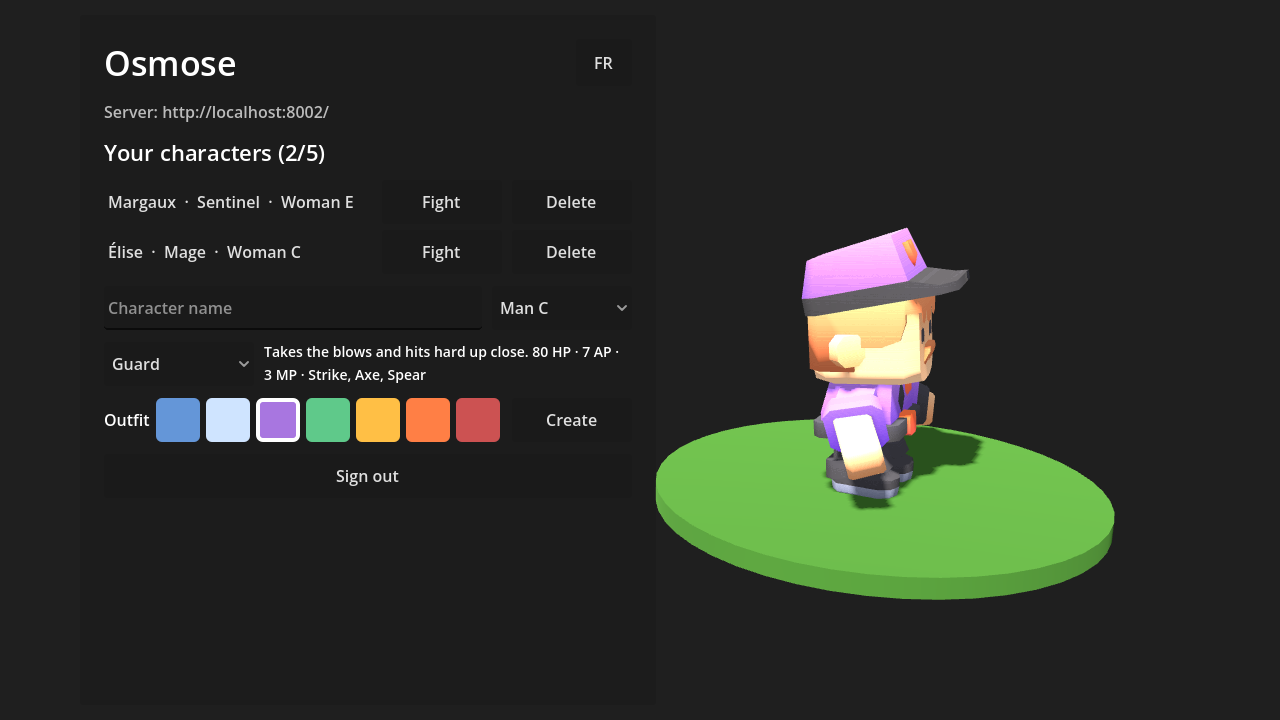
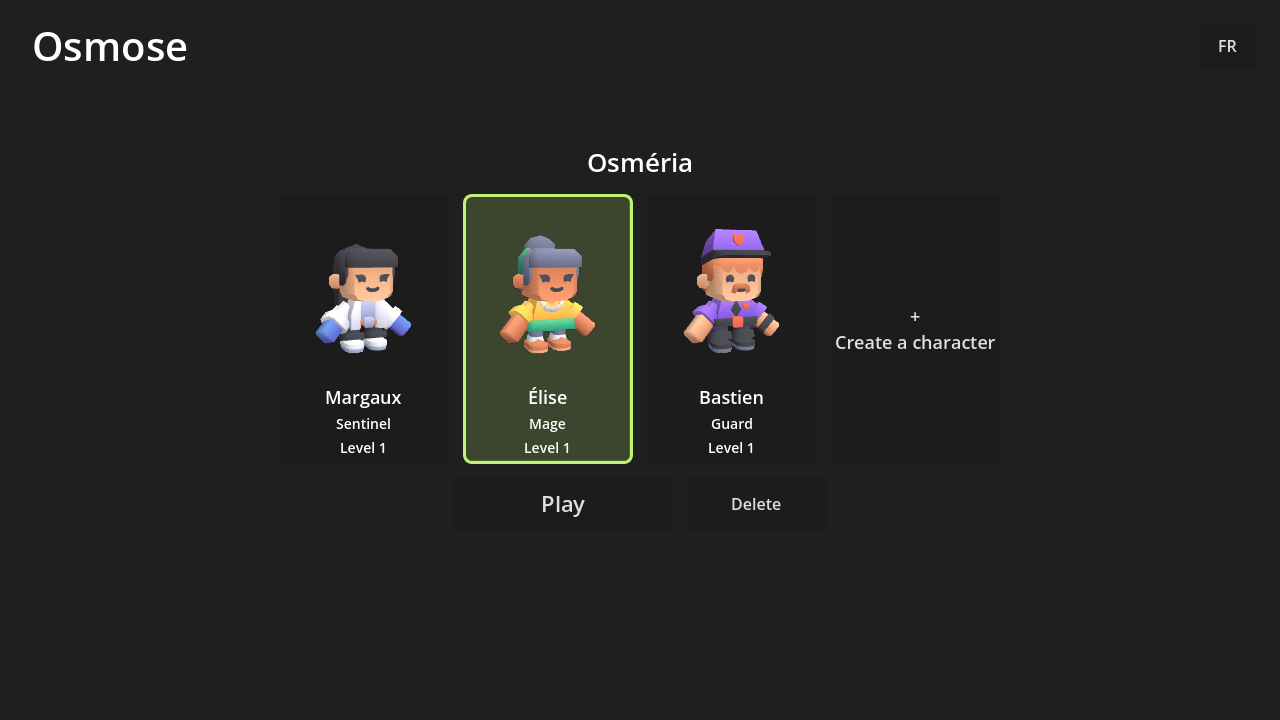
docs(rpg): sprint 52 done, the characters screen on the page and its decision (T21)

diff --git a/projects/rpg/README.md b/projects/rpg/README.md
@@ -4,7 +4,7 @@
 
 Un RPG tactique au tour par tour, dans l'esprit de Dofus et de Wakfu, écrit de zéro : aucun code, aucun nom, aucune image d'Ankama (D54). Six sprints : les règles du combat (sprint 45, ce dossier), le combat isométrique dans Godot 4 (46), le serveur de comptes et de personnages (47), la création de personnage (48), la ville d'accueil et ses PNJ (49), le launcher en Rust et les exécutables (50). Solo d'abord ; le multijoueur viendra plus tard, sur ces mêmes règles.
 
-*A turn-based tactical RPG in the style of Dofus and Wakfu, written from scratch. Sprint 51: the launcher redone: it updates the game by itself, an account name, a password and "Sign in" (which starts the game), remembering the name and the password (in the system's credential store), sign-up, the server hidden, a banner of the village. Sprint 50: a Rust launcher (Tauri) that signs in, updates the game file by file from a versioned SHA-256 manifest, resumes cut downloads with HTTP ranges and starts the game with the token; unsigned packages for Windows, macOS and Linux built by the CI; a video and an architecture diagram on the project page. Sprint 49: a welcome town built from Kenney's Fantasy Town Kit, walked with a click along the shortest path, three inhabitants with bilingual dialogues and choices described in data, the character's place saved on the server, a gate to a training fight. Sprint 48: character creation with three classes described in data (characteristics and spells, balanced by simulation), twelve looks and seven outfit colours (a palette shader), checked by the server. Sprint 47: an ASP.NET Core server for accounts and characters (JWT, PBKDF2 password hashes, rate limit, EF Core and PostgreSQL, OpenAPI, Docker), and the game's login and character screen, tested end to end against it, with an offline mode. Sprint 46: a Godot 4 C# desktop client (isometric 3D board, Kenney's free animated models, mouse and keyboard play against the AI, a self-test that plays a whole fight through the controls, builds for Windows, macOS and Linux). Sprint 45: the combat rules in a deterministic C# library (isometric grid, action and movement points, A* paths, exact line of sight, spells, initiative, an AI), described by data files, recorded fights that replay roll for roll on Linux, Windows and macOS, and a terminal simulator.*
+*A turn-based tactical RPG in the style of Dofus and Wakfu, written from scratch. Sprint 52: as in the games of the genre, the game opens on the server choice (Osméria, straight through while it is alone) then on the characters as cards (3D portrait, name, class, level), each character living on a server; without the launcher, the game only offers to open it or to play offline. Sprint 51: the launcher redone: it updates the game by itself, an account name, a password and "Sign in" (which starts the game), remembering the name and the password (in the system's credential store), sign-up, the server hidden, a banner of the village. Sprint 50: a Rust launcher (Tauri) that signs in, updates the game file by file from a versioned SHA-256 manifest, resumes cut downloads with HTTP ranges and starts the game with the token; unsigned packages for Windows, macOS and Linux built by the CI; a video and an architecture diagram on the project page. Sprint 49: a welcome town built from Kenney's Fantasy Town Kit, walked with a click along the shortest path, three inhabitants with bilingual dialogues and choices described in data, the character's place saved on the server, a gate to a training fight. Sprint 48: character creation with three classes described in data (characteristics and spells, balanced by simulation), twelve looks and seven outfit colours (a palette shader), checked by the server. Sprint 47: an ASP.NET Core server for accounts and characters (JWT, PBKDF2 password hashes, rate limit, EF Core and PostgreSQL, OpenAPI, Docker), and the game's login and character screen, tested end to end against it, with an offline mode. Sprint 46: a Godot 4 C# desktop client (isometric 3D board, Kenney's free animated models, mouse and keyboard play against the AI, a self-test that plays a whole fight through the controls, builds for Windows, macOS and Linux). Sprint 45: the combat rules in a deterministic C# library (isometric grid, action and movement points, A* paths, exact line of sight, spells, initiative, an AI), described by data files, recorded fights that replay roll for roll on Linux, Windows and macOS, and a terminal simulator.*
 
 ## Les règles
 - **Le plateau** est une grille de cases dessinées en losanges (vue isométrique). On se déplace vers l'une des quatre cases qui partagent un côté ; toutes les distances se comptent en pas, donc une portée dessine un losange autour du lanceur. Trois terrains : le sol, les obstacles (ni passage ni vue) et les trous (pas de passage, mais les sorts passent au-dessus).
@@ -62,7 +62,7 @@ cd launcher/app && npx @tauri-apps/cli@2.5.0 dev                   # la fenêtre
   - `Data.cs` : sorts, cartes et scénarios lus depuis `data/`, refusés s'ils sont incohérents.
 - **`src/Rpg.Sim`** : le simulateur en ligne de commande.
 - **`src/Rpg.Api`** (ASP.NET Core, API minimale) : le serveur des comptes et des personnages.
-  - `POST /api/accounts` (créer un compte), `POST /api/tokens` (se connecter : un jeton JWT valable 12 heures), `GET`, `POST /api/characters`, `DELETE /api/characters/{id}` et `PUT /api/characters/{id}/place` (où il se tient en ville : refusé si l'on ne peut pas y marcher depuis l'arrivée) (avec le jeton) ; description OpenAPI sur `/openapi/v1.json`, Swagger UI sur `/swagger`.
+  - `GET /api/servers` (les serveurs de jeu, tirés de la configuration `Servers:N:Id` / `Servers:N:Name` ; Osméria par défaut), `POST /api/accounts` (créer un compte), `POST /api/tokens` (se connecter : un jeton JWT valable 12 heures), `GET`, `POST /api/characters`, `DELETE /api/characters/{id}` et `PUT /api/characters/{id}/place` (où il se tient en ville : refusé si l'on ne peut pas y marcher depuis l'arrivée) (avec le jeton) ; description OpenAPI sur `/openapi/v1.json`, Swagger UI sur `/swagger`.
   - Mots de passe hachés par PBKDF2 (le `PasswordHasher` d'ASP.NET Core Identity) ; un nom inconnu coûte autant qu'un mauvais mot de passe, et la réponse est la même. Inscription et connexion limitées à 10 essais par minute et par adresse.
   - Noms de compte uniques, noms de personnage uniques sur tout le serveur, sans tenir compte de la casse (index unique sur le nom en majuscules : deux créations simultanées ne passent pas toutes les deux) ; cinq personnages au plus par compte ; le personnage d'un autre se comporte comme un personnage absent (404).
   - EF Core 10 et PostgreSQL (Npgsql), migrations par `dotnet ef` (outil épinglé dans `.config/dotnet-tools.json`), appliquées au démarrage. Image Docker « chiseled » (sans shell, utilisateur non root), service `rpg-api` de `compose.yaml` avec sa base `rpg-db`, qui n'est pas exposée.
@@ -93,6 +93,8 @@ scripts/smoke.sh http://localhost:8002     # contre docker compose : de l'inscri
 La clé qui signe les jetons vient de `Jwt__Key` (base64, 32 octets, variable d'environnement ; `RPG_JWT_KEY` pour docker compose). Sans clé, le serveur en tire une au démarrage, et les jetons ne survivent pas à un redémarrage.
 
 ## Tests
+Sprint 52 : 2 tests du serveur (un seul serveur sans configuration et les personnages y vivent ; serveurs configurés, personnage créé sur celui choisi, serveur inconnu refusé, liste accessible sans compte), 1 du client (un serveur choisi d'office, plusieurs attendent le choix, personnages filtrés par serveur, création refusée sans serveur), mises à jour de ceux qui comptaient les requêtes et les champs ; `--lobby-selftest` passe maintenant par les cartes : le héros créé doit apparaître sur sa carte (nom, classe, niveau), être choisi, puis « Jouer ».
+
 Sprint 51 : 7 tests Rust de plus (rien n'est mémorisé sans le demander, le nom et le mot de passe reviennent et le mot de passe mémorisé suffit, décocher oublie, un autre compte fait oublier le premier, un mauvais mot de passe ne mémorise rien, un gestionnaire d'identifiants verrouillé n'empêche pas de jouer, l'inscription et ses refus, l'ordre de choix du serveur) ; 2 tests Playwright de la page du launcher, sur les cinq navigateurs, avec un faux Tauri (mise à jour dès l'ouverture, cases pré-cochées, refus traduits, mot de passe vérifié sur la page avant l'inscription, « Se connecter » qui attend la mise à jour puis lance, les deux langues, tout tient dans la fenêtre).
 
 Sprint 50 : 13 tests Rust (`cargo test`) : premier téléchargement complet puis plus rien, seuls les fichiers modifiés ensuite et les anciens retirés, fichier abîmé sur le disque retéléchargé, téléchargement coupé repris là où il s'était arrêté (avec un serveur qui ignore la reprise aussi), fichier qui ne correspond pas à son empreinte jamais installé, manifeste qui tenterait d'écrire hors du dossier refusé, exécutable rendu exécutable, progression, et contre un vrai serveur HTTP : reprise par `Range` (206), connexion et ses refus, jeton passé par l'environnement ; clippy au niveau `all`, avertissements bloquants. 3 tests du serveur (fichiers servis avec reprise, rien hors du dossier, jeton du launcher). Dans la CI : le launcher compilé, testé et empaqueté sur les trois systèmes ; puis, de bout en bout, l'export Linux du jeu publié par docker compose, installé par `rpg-update`, mis à jour sans rien télécharger, réparé après un fichier abîmé, et qui joue un combat entier depuis le dossier installé. Playwright : la fiche (vidéo, schéma, capture du launcher) sur les cinq navigateurs, avec axe.

diff --git a/projects/rpg/REVIEW.md b/projects/rpg/REVIEW.md
@@ -19,6 +19,7 @@ Claude y ajoute aussi ses constats au fil de l'eau, préfixés « (Claude) » ; 
 > Cases cochées par Claude le 9 octobre 2026, à la demande explicite de Charles (« tout marche, tu peux valider »), pour les sprints 45 à 50 (règles, client Godot, serveur, création de personnage, village, launcher et fiche), après son essai du launcher et du jeu sous Windows.
 
 - [ ] Sprint 51 : le launcher chez toi (paquet de la CI) : connexion, inscription, cases « mémoriser » (le mot de passe revient-il au lancement suivant ?), mise à jour automatique ; et `launcher/core/src/account.rs` (ce qui est mémorisé, où, et ce qui est oublié).
+- [ ] Sprint 52 : l'ouverture du jeu par le launcher (le serveur Osméria passé d'office, les cartes des personnages, « Jouer », la suppression confirmée) ; sans le launcher, le message et « Jouer hors ligne ».
 
 ## Constats
 
@@ -62,4 +63,7 @@ Claude y ajoute aussi ses constats au fil de l'eau, préfixés « (Claude) » ; 
 | 2026-10-09 | `launcher/ui/style.css` | (Claude) Vu sur la capture : le champ « Confirmer le mot de passe » s'affichait en mode connexion (`display: grid` des libellés l'emportait sur `hidden`), et la fenêtre coupait la barre de mise à jour | `[hidden] { display: none !important }`, fenêtre de 720 px ; Playwright vérifie les deux |
 | 2026-10-09 | `launcher/ui/main.js` | (Claude) Tailles affichées « 3.0 Mo » en français | Virgule décimale en français, testée |
 | 2026-10-09 | `launcher/ui` | (Claude) La page du launcher n'avait aucun test : sa logique (ordre mise à jour, connexion, lancement) n'était vérifiée nulle part | Playwright avec un faux `window.__TAURI__`, sur les cinq navigateurs |
+| 2026-10-09 | `godot/Portrait.cs` | (Claude) « Node not inside tree » : la caméra du portrait était orientée par `LookAt` avant d'entrer dans la scène | Orientation calculée (`Transform3D.LookingAt`) |
+| 2026-10-09 | `src/Rpg.Client/Texts.cs` | (Claude) Le bouton du personnage disait « Combattre » alors qu'il mène au village | « Jouer » |
+| 2026-10-09 | `src/Rpg.Api/Data/Migrations` | (Claude) Migration générée avec le serveur « origine » avant que Charles ne choisisse « Osméria » | Migration non commitée retirée à la main et régénérée (`ef migrations remove` voulait une base) |
 | | | | |

diff --git a/projects/rpg/DECISIONS.md b/projects/rpg/DECISIONS.md
@@ -111,3 +111,8 @@ Le choix du projet et de sa pile (Godot 4 en C#, règles partagées, ASP.NET Cor
 **Pourquoi :** Charles trouvait « Mettre à jour », « Se connecter » et « Jouer » redondants, et le serveur inutile à montrer ; mémoriser un mot de passe en clair serait une faute.
 **Alternatives :** chiffrer le mot de passe dans un fichier avec une clé du launcher (la clé serait dans le programme : aucune protection réelle) ; un jeton de longue durée à la place du mot de passe (mieux, mais il faut un mécanisme de rafraîchissement côté serveur : à prévoir avec le multijoueur).
 **Limites :** sous Linux, il faut un Secret Service (GNOME Keyring, KWallet) ; sans lui, le mot de passe ne peut pas être mémorisé (le nom, si).
+
+## T21. Le choix du serveur puis des personnages, dans le jeu (sprint 52, comme Dofus)
+**Choix :** chaque personnage appartient à un serveur de jeu (colonne `Server`, Osméria par défaut, nom choisi par Charles) et a un niveau (1 en attendant la progression). `GET /api/servers` lit la liste dans la configuration. À l'ouverture, le jeu montre les serveurs (choix sauté s'il n'y en a qu'un), puis les personnages du serveur en cartes : portrait 3D rendu dans sa propre fenêtre (`Portrait`), pseudo, classe, niveau ; « Jouer » sur le personnage choisi ; suppression après confirmation ; création dans un panneau (l'écran plein écran vient au sprint 53). Lancé sans le launcher, le jeu ne propose plus de formulaire de connexion : il demande d'ouvrir le launcher, ou de jouer hors ligne. La limite de cinq personnages reste par compte, tous serveurs confondus.
+**Pourquoi :** c'est l'enchaînement que Charles a demandé (questionnaire du 9 octobre) ; un seul endroit pour se connecter (le launcher).
+**Limites :** un seul serveur existe vraiment (toutes les données sont dans la même base) ; plusieurs serveurs séparés demanderont des bases ou des processus distincts, et le choix du serveur côté launcher.

diff --git a/scrum/sprint-52.md b/scrum/sprint-52.md
@@ -6,7 +6,11 @@
 
 | Story | Points | État |
 |---|---|---|
-| En tant que joueur, je choisis mon serveur puis mon personnage (rpg) : liste des serveurs donnée par l'API (connexion directe s'il n'y en a qu'un) ; personnages en vignettes (portrait 3D, pseudo, classe, niveau) ; « Créer » s'il y en a moins de cinq ; suppression confirmée ; xUnit, auto-test et captures. | 3 | À faire |
+| En tant que joueur, je choisis mon serveur puis mon personnage (rpg) : liste des serveurs donnée par l'API (connexion directe s'il n'y en a qu'un) ; personnages en vignettes (portrait 3D, pseudo, classe, niveau) ; « Créer » s'il y en a moins de cinq ; suppression confirmée ; xUnit, auto-test et captures. | 3 | Fait |
+
+**Résultat :** à l'ouverture, le jeu passe le choix du serveur (Osméria, seul pour l'instant, nommé par Charles) et montre les personnages en cartes : portrait 3D, pseudo, classe, niveau ; « Jouer » mène au village ; suppression confirmée ; création dans un panneau. Sans le launcher, le jeu propose de l'ouvrir ou de jouer hors ligne (T21).
+
+**Tests :** 3 tests de plus (serveur et client), l'auto-test contre le serveur passe par les cartes, l'essai de bout en bout vérifie la liste des serveurs. **Trouvé en route :** une caméra orientée hors de la scène, un bouton mal nommé, une migration à régénérer après le choix du nom du serveur.
 
 ## Rétro (Charles)
 - Ce qui a marché :
